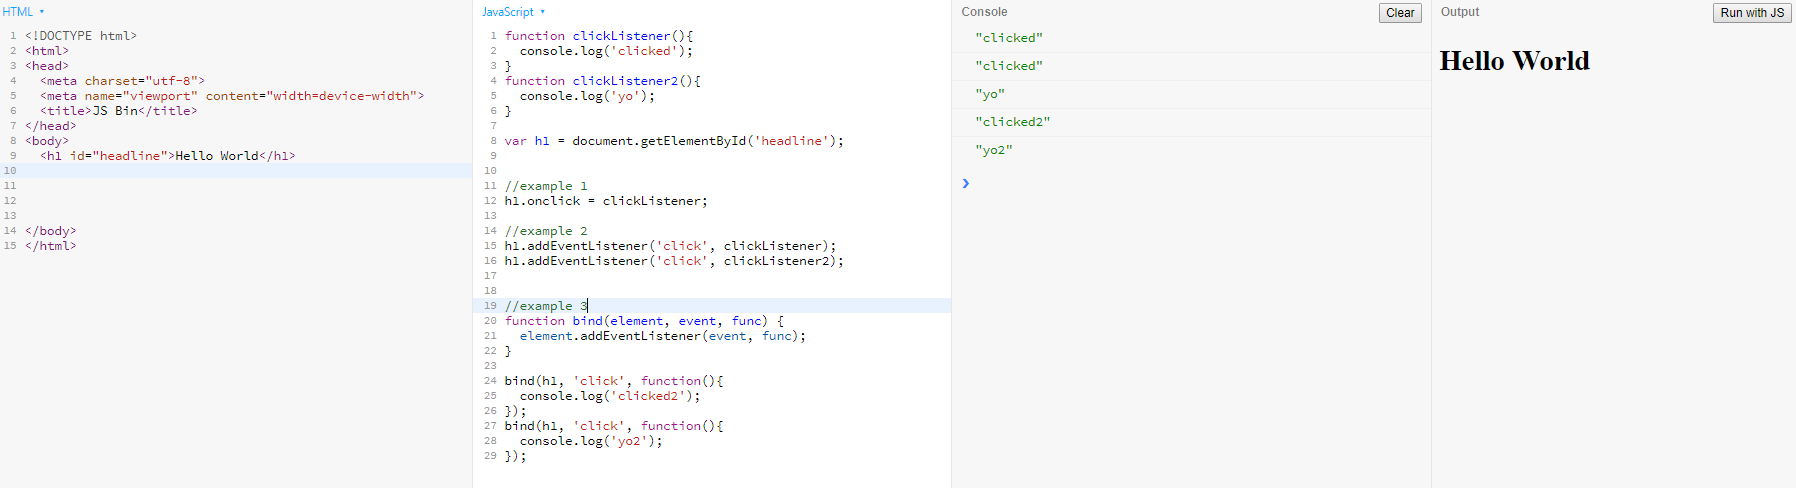
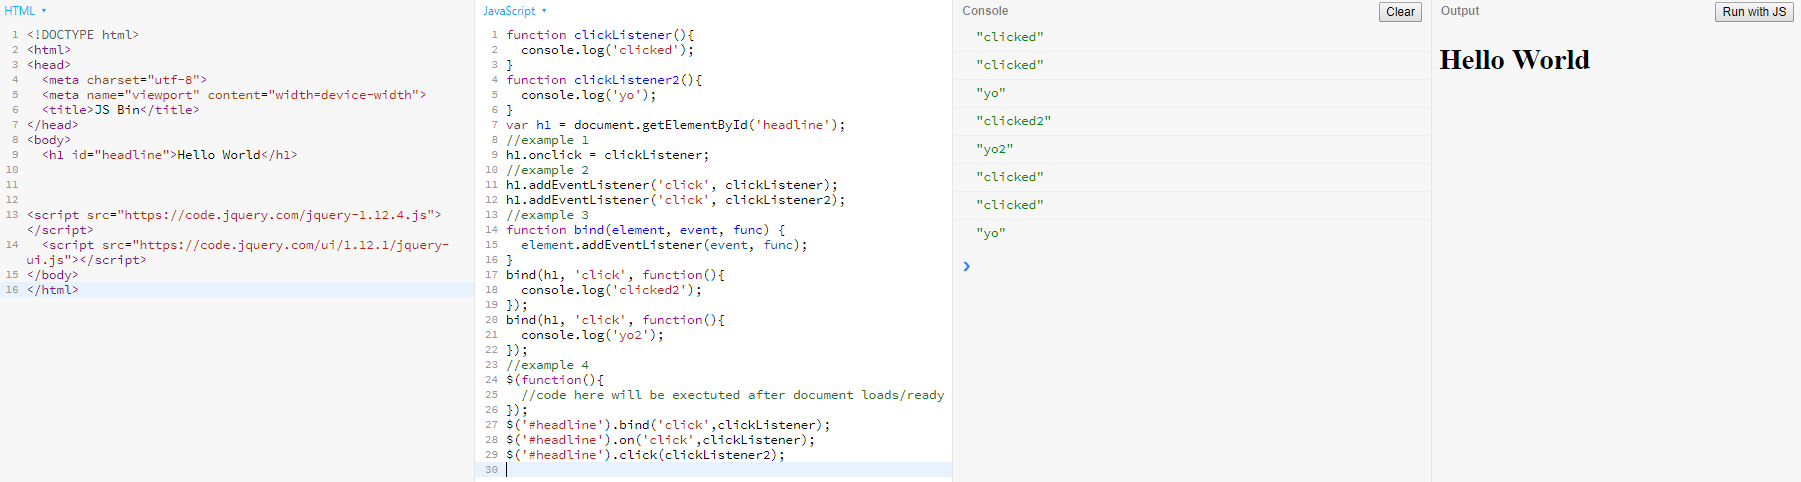
updated .addEventListener() method jQuery version

diff --git a/scripts/services.js b/scripts/services.js
@@ -385,7 +385,7 @@ angular.module('confusionApp')
                           category: 'HTML',
                           link:'http://jsbin.com/kemolu/edit?html,js,console,output',
                           info:'info',
-                          description:'With HTML DOM addEventListener method we can attach multiple listeners to a single element on our page. Most common need for this is if you have an onclick function assigned to a button via its onclick dom property, you can only run one function on that property. To solve this problem we assign the events to this method and keeps track of events on each element. In example 1 we are not adding parenthesis because we are setting .onlick to be the function not the invocation of the function, if we to put parenthesis our function clickListener will be immediately executed and it would not be set up as an event listener. example 1 is exact same thing as if you did inline onclick="clickListener()". The problem with this is we can only assign one function to this property. Example 2 uses addEventListener object to solve this problem. Here we attach event listeners to nodes 1 by 1 so multiple event listeners /functions can sit on a node. This method keeps track of all the event listeners by type and what function. In example 3 if u have repeated code you can use a bind function so you only pass in parameters.'
+                          description:'With HTML DOM addEventListener method we can attach multiple listeners to a single element on our page. Most common need for this is if you have an onclick function assigned to a button via its onclick dom property, you can only run one function on that property. To solve this problem we assign the events to this method and keeps track of events on each element. In example 1 we are not adding parenthesis because we are setting .onlick to be the function not the invocation of the function, if we to put parenthesis our function clickListener will be immediately executed and it would not be set up as an event listener. example 1 is exact same thing as if you did inline onclick="clickListener()". The problem with this is we can only assign one function to this property. Example 2 uses addEventListener object to solve this problem. Here we attach event listeners to nodes 1 by 1 so multiple event listeners /functions can sit on a node. This method keeps track of all the event listeners by type and what function. In example 3 if u have repeated code you can use a bind function so you only pass in parameters. In example 4 we are using jQuery terminology to adding event listeners to our element selectors. The first part $(function(){//code here}); is  jQuery short hand version of saying $(document).ready(function() { ... }); in other words wrap your jquery code around here so no matter were you put your jquery code (top of page or bottom or external) it won\'t be executed until the DOM loads up and selectors or what not can match up the DOM. A way to avoid this is to write your DOM/jquery code on bottom of your code at end of the body. Note .bind event and .on event are the same thing.'
                         },
 
 
